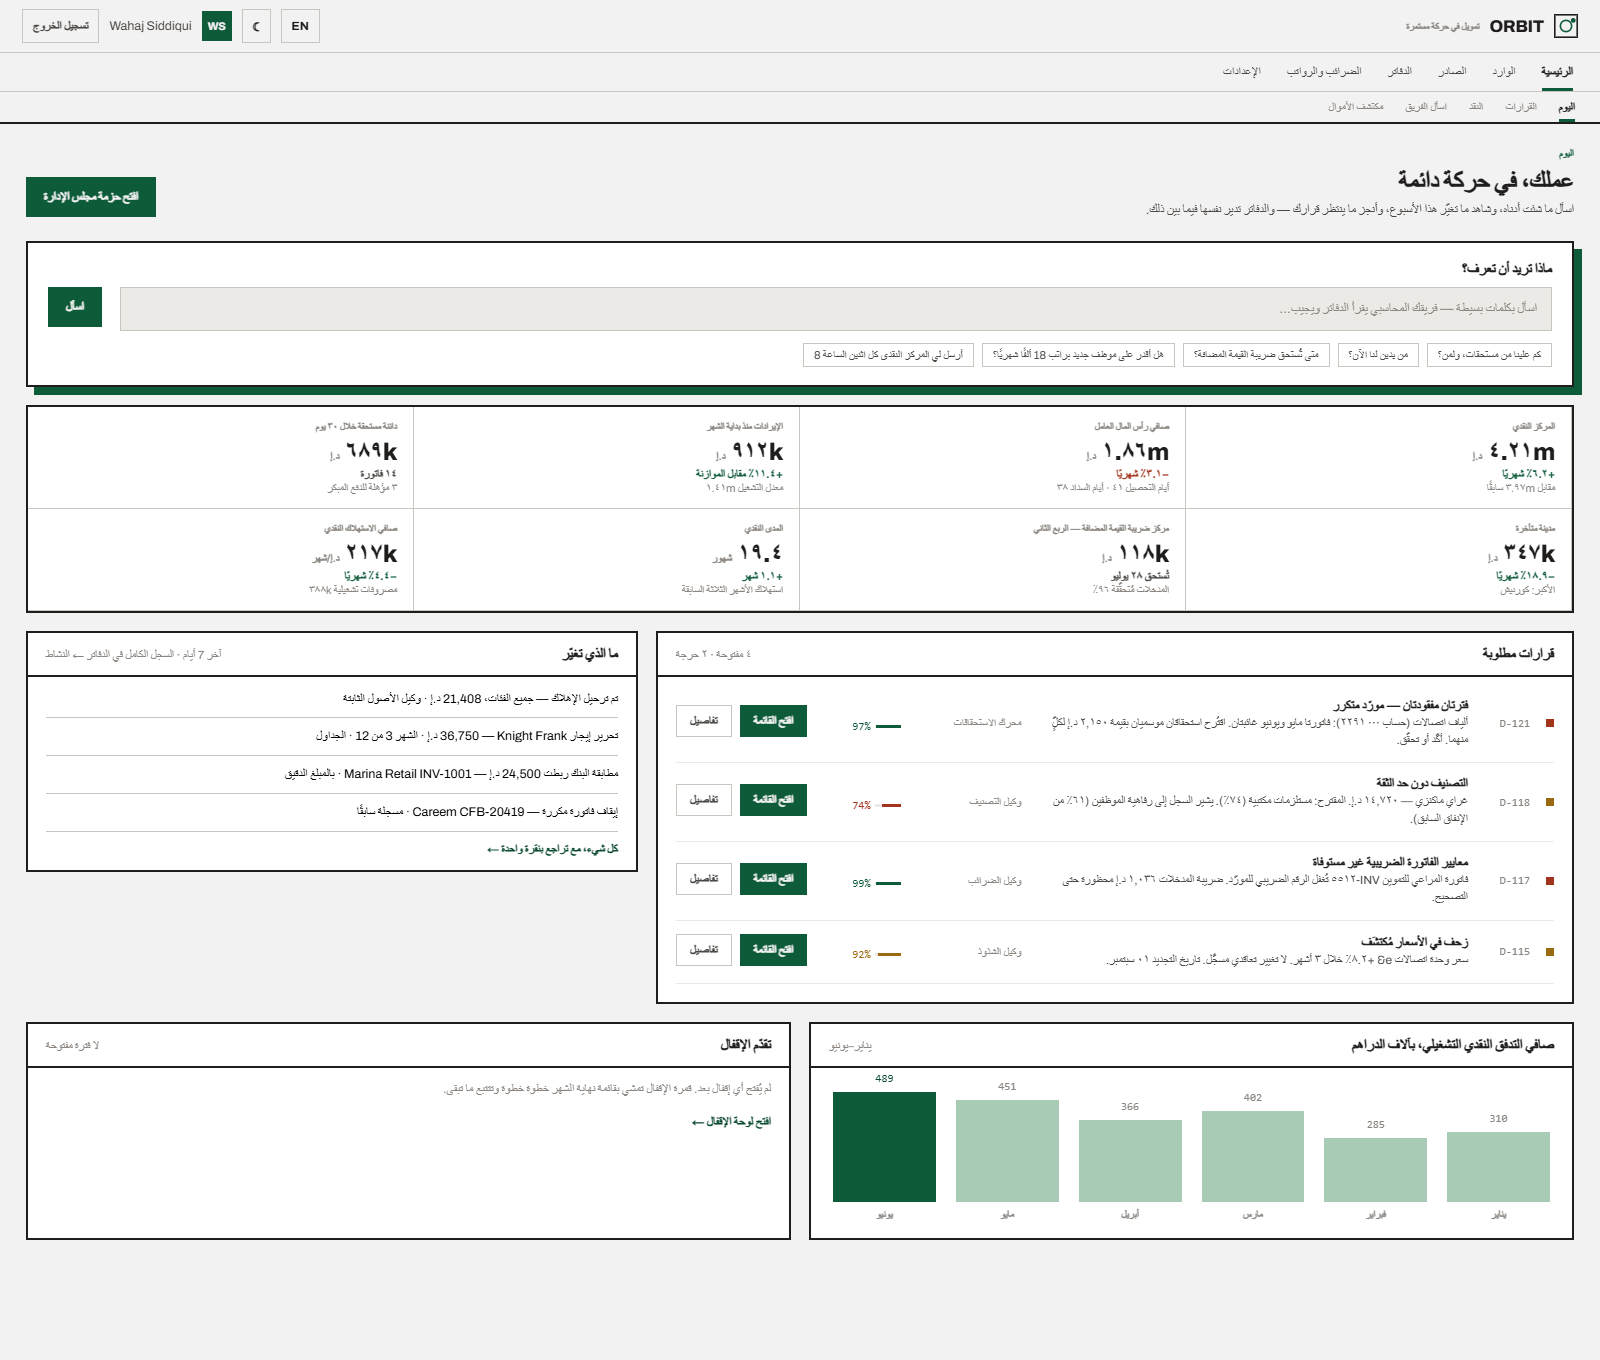
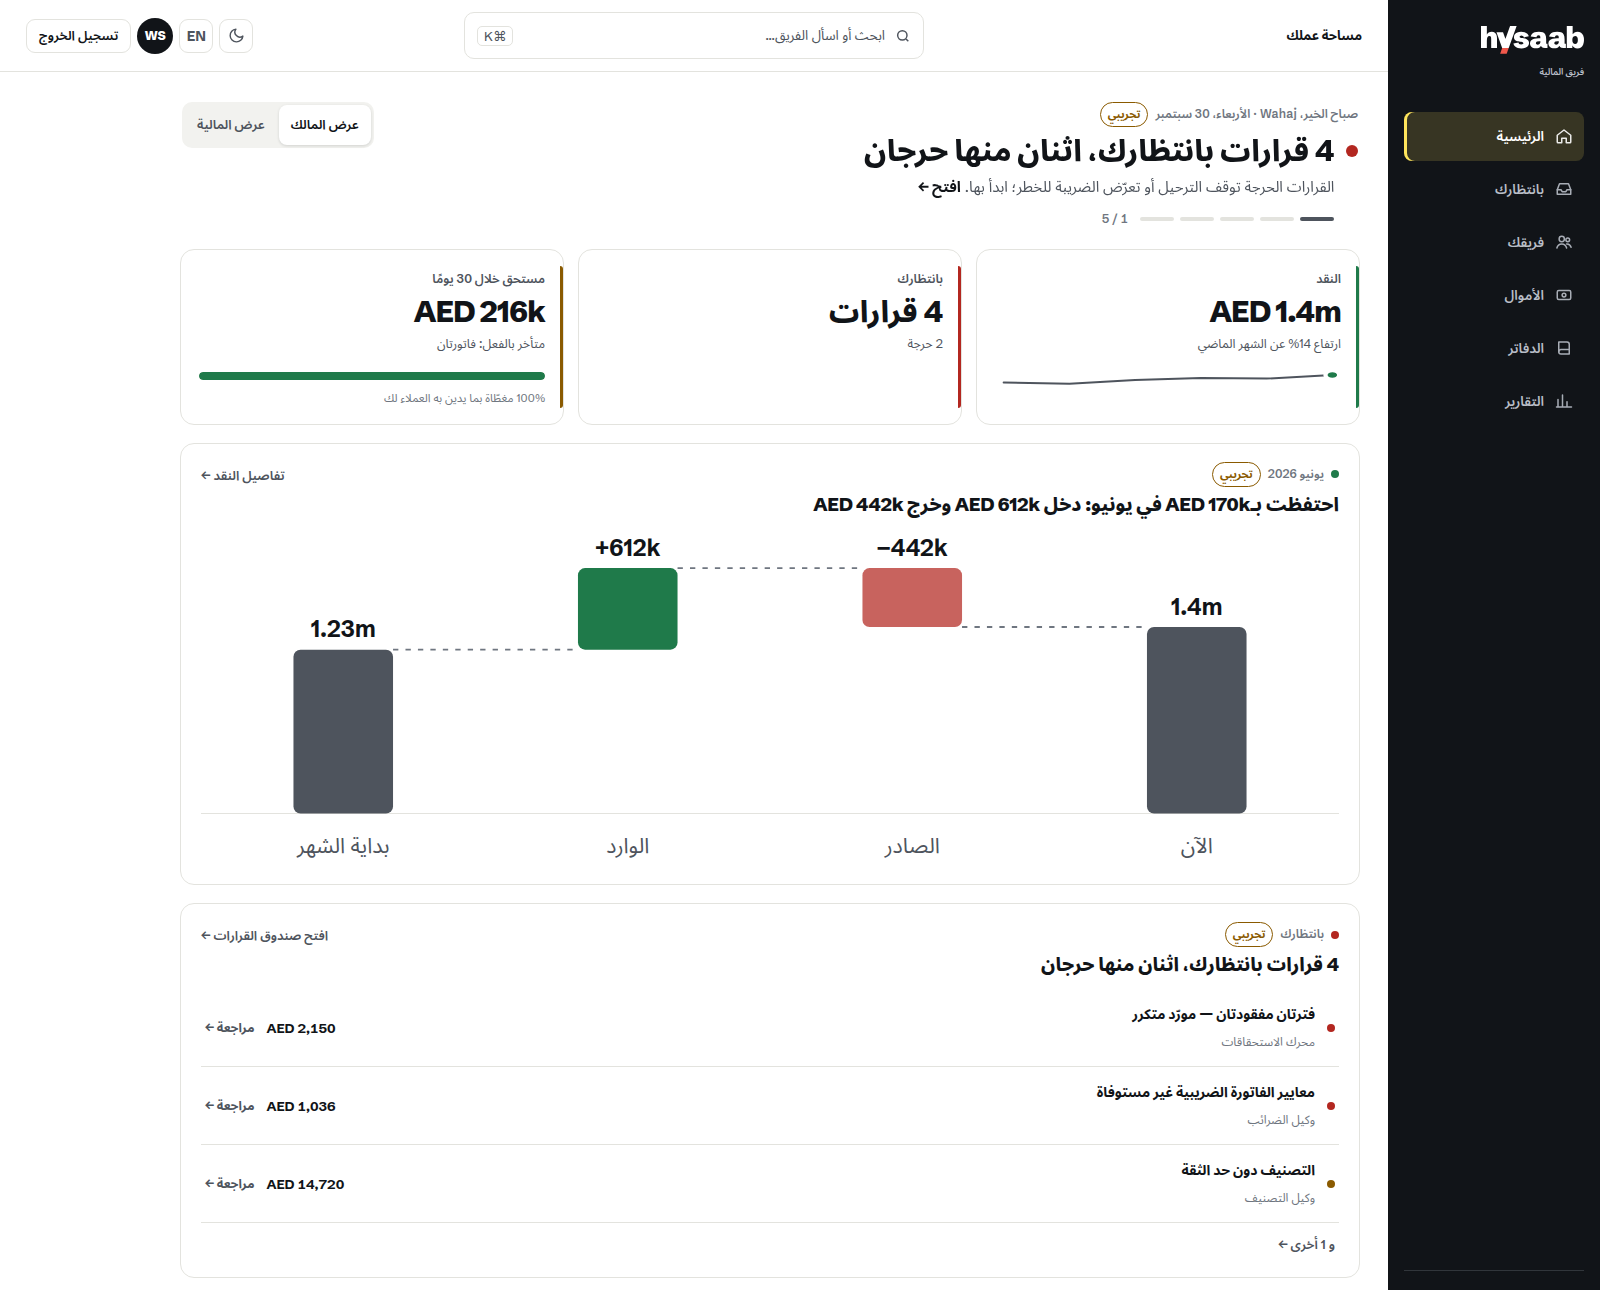
Walkthrough cards 04 and 05 fill their frames; Arabic workspace recaptured
- Cards 04 and 05 under "Inside the real workspace" showed thin strips
  (3.6:1 and 7.4:1) floating in the 1.55:1 frame. New crops at 1.55:1
  from the app's sample data: the journal from the confirmed reclass to
  the opened entry's commentary, tie-out, documents and Void journal; Home
  from the headline through the three tiles to June's cash walk. The
  Cash tile's sparkline now reaches its end dot (app fix). Card 05's
  "what to notice" follows the new crop.
- adv-arabic.png: the workspace Home in Arabic, now fully translated,
  in Tick & Tie (was the old ORBIT look); 1600×1290 so it ends cleanly.
- adv-ocr-review.png / adv-ocr-register.png removed: old ORBIT Invoice
  screens no longer in the app; /ar/invoice renders InvoiceFlow instead.

Claude-Session: https://claude.ai/code/session_01YVwaqS95JTPmss7rHBEcwx

diff --git a/app/ar/accounting/page.tsx b/app/ar/accounting/page.tsx
@@ -151,7 +151,7 @@ export default function AccountingPage() {
               <p>تنقّل بين الكيانات، ووحّدها، وحوّل مساحة العمل كلها إلى العربية، من اليمين إلى اليسار.</p>
             </div>
             <div className="hw-shot">
-              <Image src="/shots/adv-arabic.png" width={1600} height={1360} sizes="(max-width: 760px) 100vw, 55vw" alt="مساحة عمل Hysaab بالعربية، من اليمين إلى اليسار. بيانات تجريبية." style={{ width: "100%", height: "auto", border: "1px solid var(--hw-hairline)" }} />
+              <Image src="/shots/adv-arabic.png" width={1600} height={1290} sizes="(max-width: 760px) 100vw, 55vw" alt="مساحة عمل Hysaab بالعربية، من اليمين إلى اليسار. بيانات تجريبية." style={{ width: "100%", height: "auto", border: "1px solid var(--hw-hairline)" }} />
               <p className="hw-shot-cap">مساحة العمل نفسها بالعربية، من اليمين إلى اليسار. بيانات تجريبية.</p>
             </div>
           </div>

diff --git a/app/(en)/accounting/page.tsx b/app/(en)/accounting/page.tsx
@@ -152,7 +152,7 @@ export default function AccountingPage() {
               <p>Switch entities, consolidate, and turn the whole workspace to Arabic, right to left, down to the numerals.</p>
             </div>
             <div className="hw-shot">
-              <Image src="/shots/adv-arabic.png" width={1600} height={1360} sizes="(max-width: 760px) 100vw, 55vw" alt="The Hysaab workspace in Arabic, right to left, sample data." style={{ width: "100%", height: "auto", border: "1px solid var(--hw-hairline)" }} />
+              <Image src="/shots/adv-arabic.png" width={1600} height={1290} sizes="(max-width: 760px) 100vw, 55vw" alt="The Hysaab workspace in Arabic, right to left, sample data." style={{ width: "100%", height: "auto", border: "1px solid var(--hw-hairline)" }} />
               <p className="hw-shot-cap">The same workspace in Arabic, right to left. Sample data.</p>
             </div>
           </div>

diff --git a/lib/home-moments.ts b/lib/home-moments.ts
@@ -112,7 +112,7 @@ export const MOMENTS: MomentDef[] = [
     alt: "Hysaab Home screen: tiles for cash of AED 1.4m, up 14% on last month, four decisions with two critical, and AED 216k due in 30 days with two bills overdue; below, a chart of June from AED 1.23m at the start, AED 612k in and AED 442k out, to AED 1.4m now.",
     pending: "Workspace capture pending: the Home screen.",
     focus: "f-05-position.png",
-    notice: "Notice the three tiles: cash, what needs you and what falls due, each with its context line.",
+    notice: "Notice the headline that leads with what needs you, the three tiles under it, and June’s cash walked from the start of the month to now.",
   },
 ];
 
